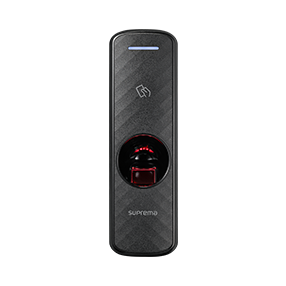
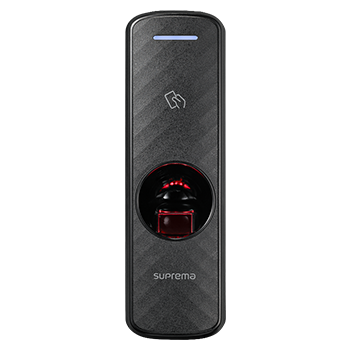
fix: resolve localisation keys showing as raw strings + footer gradient
Root cause: ResourcesPath = "Resources" caused the IStringLocalizer to
look for Resources/Resources/SharedResources.resx (double-nested folder).
Fix: set ResourcesPath = "" so lookup resolves to Resources/SharedResources.resx.

Also:
- Footer overlay changed from solid rgba(.88) to bottom-up gradient
  so the background image shows through at the top of the footer
- Swap PNG product images to higher-quality webp versions (xstation-2,
  biostation-3, bioentry-w3) sourced from Suprema thumbnail folder
- Add 10 additional product device PNGs from the Suprema thumbnail set

Changed region(s): [[0.3357, 0.028, 0.6713, 0.979], [0.4476, 0.7273, 0.5594, 0.8112], [0.4476, 0.2517, 0.5315, 0.3357]]

diff --git a/src/Suprema.Web/wwwroot/css/site.css b/src/Suprema.Web/wwwroot/css/site.css
@@ -651,7 +651,12 @@ a:hover { color: var(--sup-primary-dark); }
     content: '';
     position: absolute;
     inset: 0;
-    background: rgba(33,33,38,.88);
+    background: linear-gradient(
+        to bottom,
+        rgba(33,33,38,.55) 0%,
+        rgba(33,33,38,.82) 30%,
+        rgba(33,33,38,.95) 100%
+    );
 }
 .site-footer .container { position: relative; z-index: 1; }
 .site-footer a { color: rgba(255,255,255,.65); text-decoration: none; transition: color .25s; }

diff --git a/src/Suprema.Web/Program.cs b/src/Suprema.Web/Program.cs
@@ -8,7 +8,7 @@ builder.Services.AddControllersWithViews()
     .AddViewLocalization()
     .AddDataAnnotationsLocalization();
 
-builder.Services.AddLocalization(o => o.ResourcesPath = "Resources");
+builder.Services.AddLocalization(o => o.ResourcesPath = "");
 
 var contentRoot = Path.Combine(builder.Environment.ContentRootPath, "..", "Suprema.Content", "Data");
 builder.Services.AddSupremaContent(Path.GetFullPath(contentRoot));
